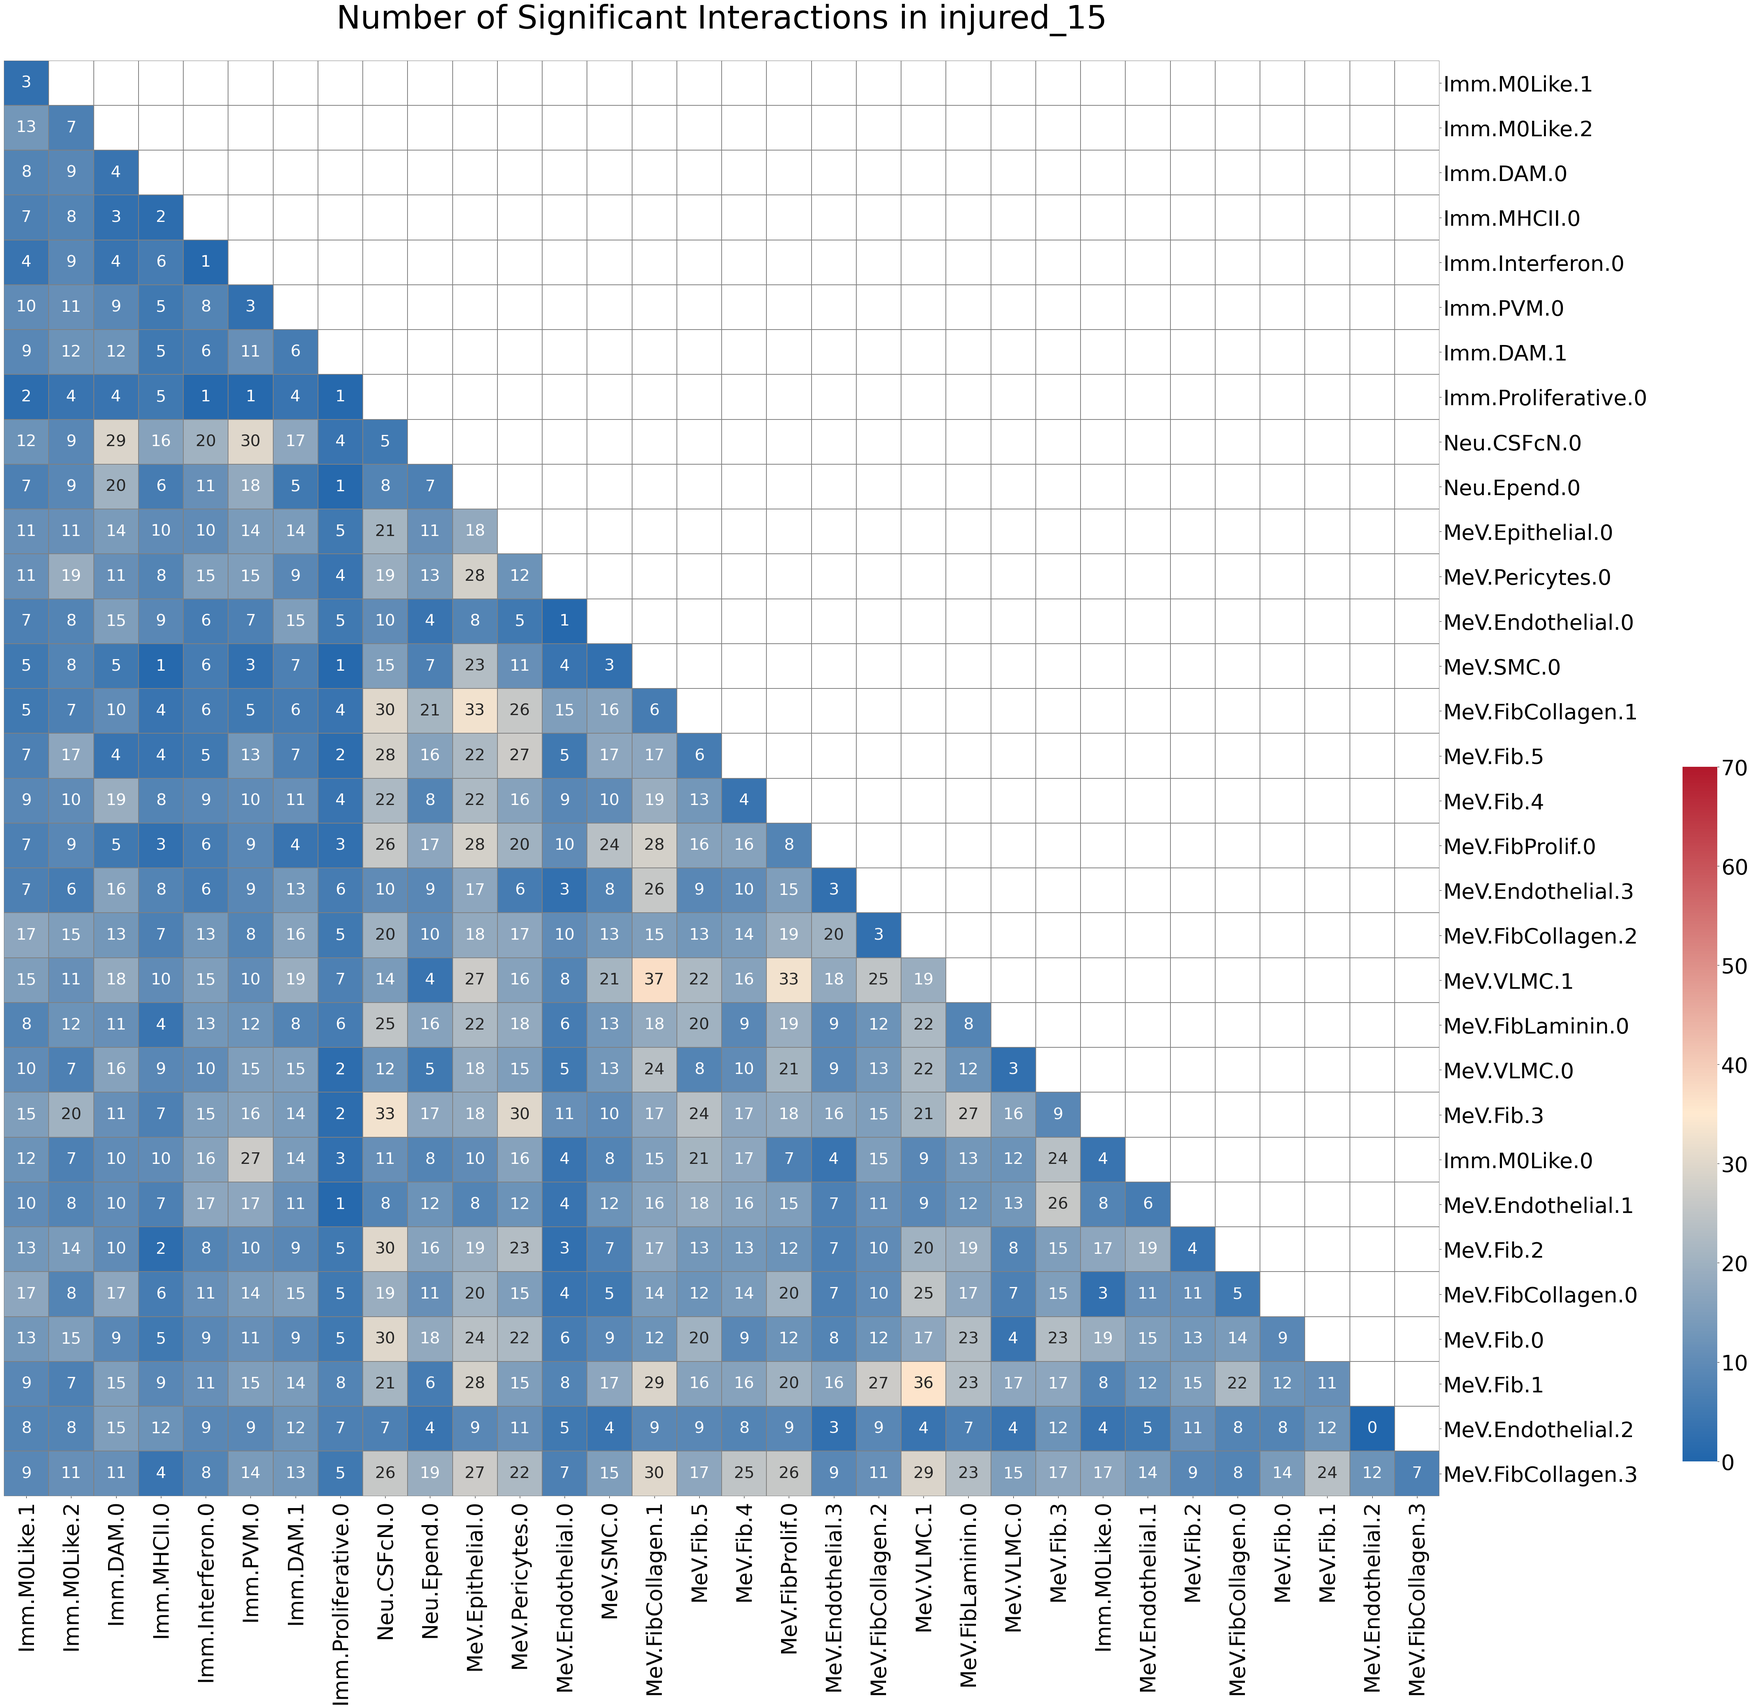
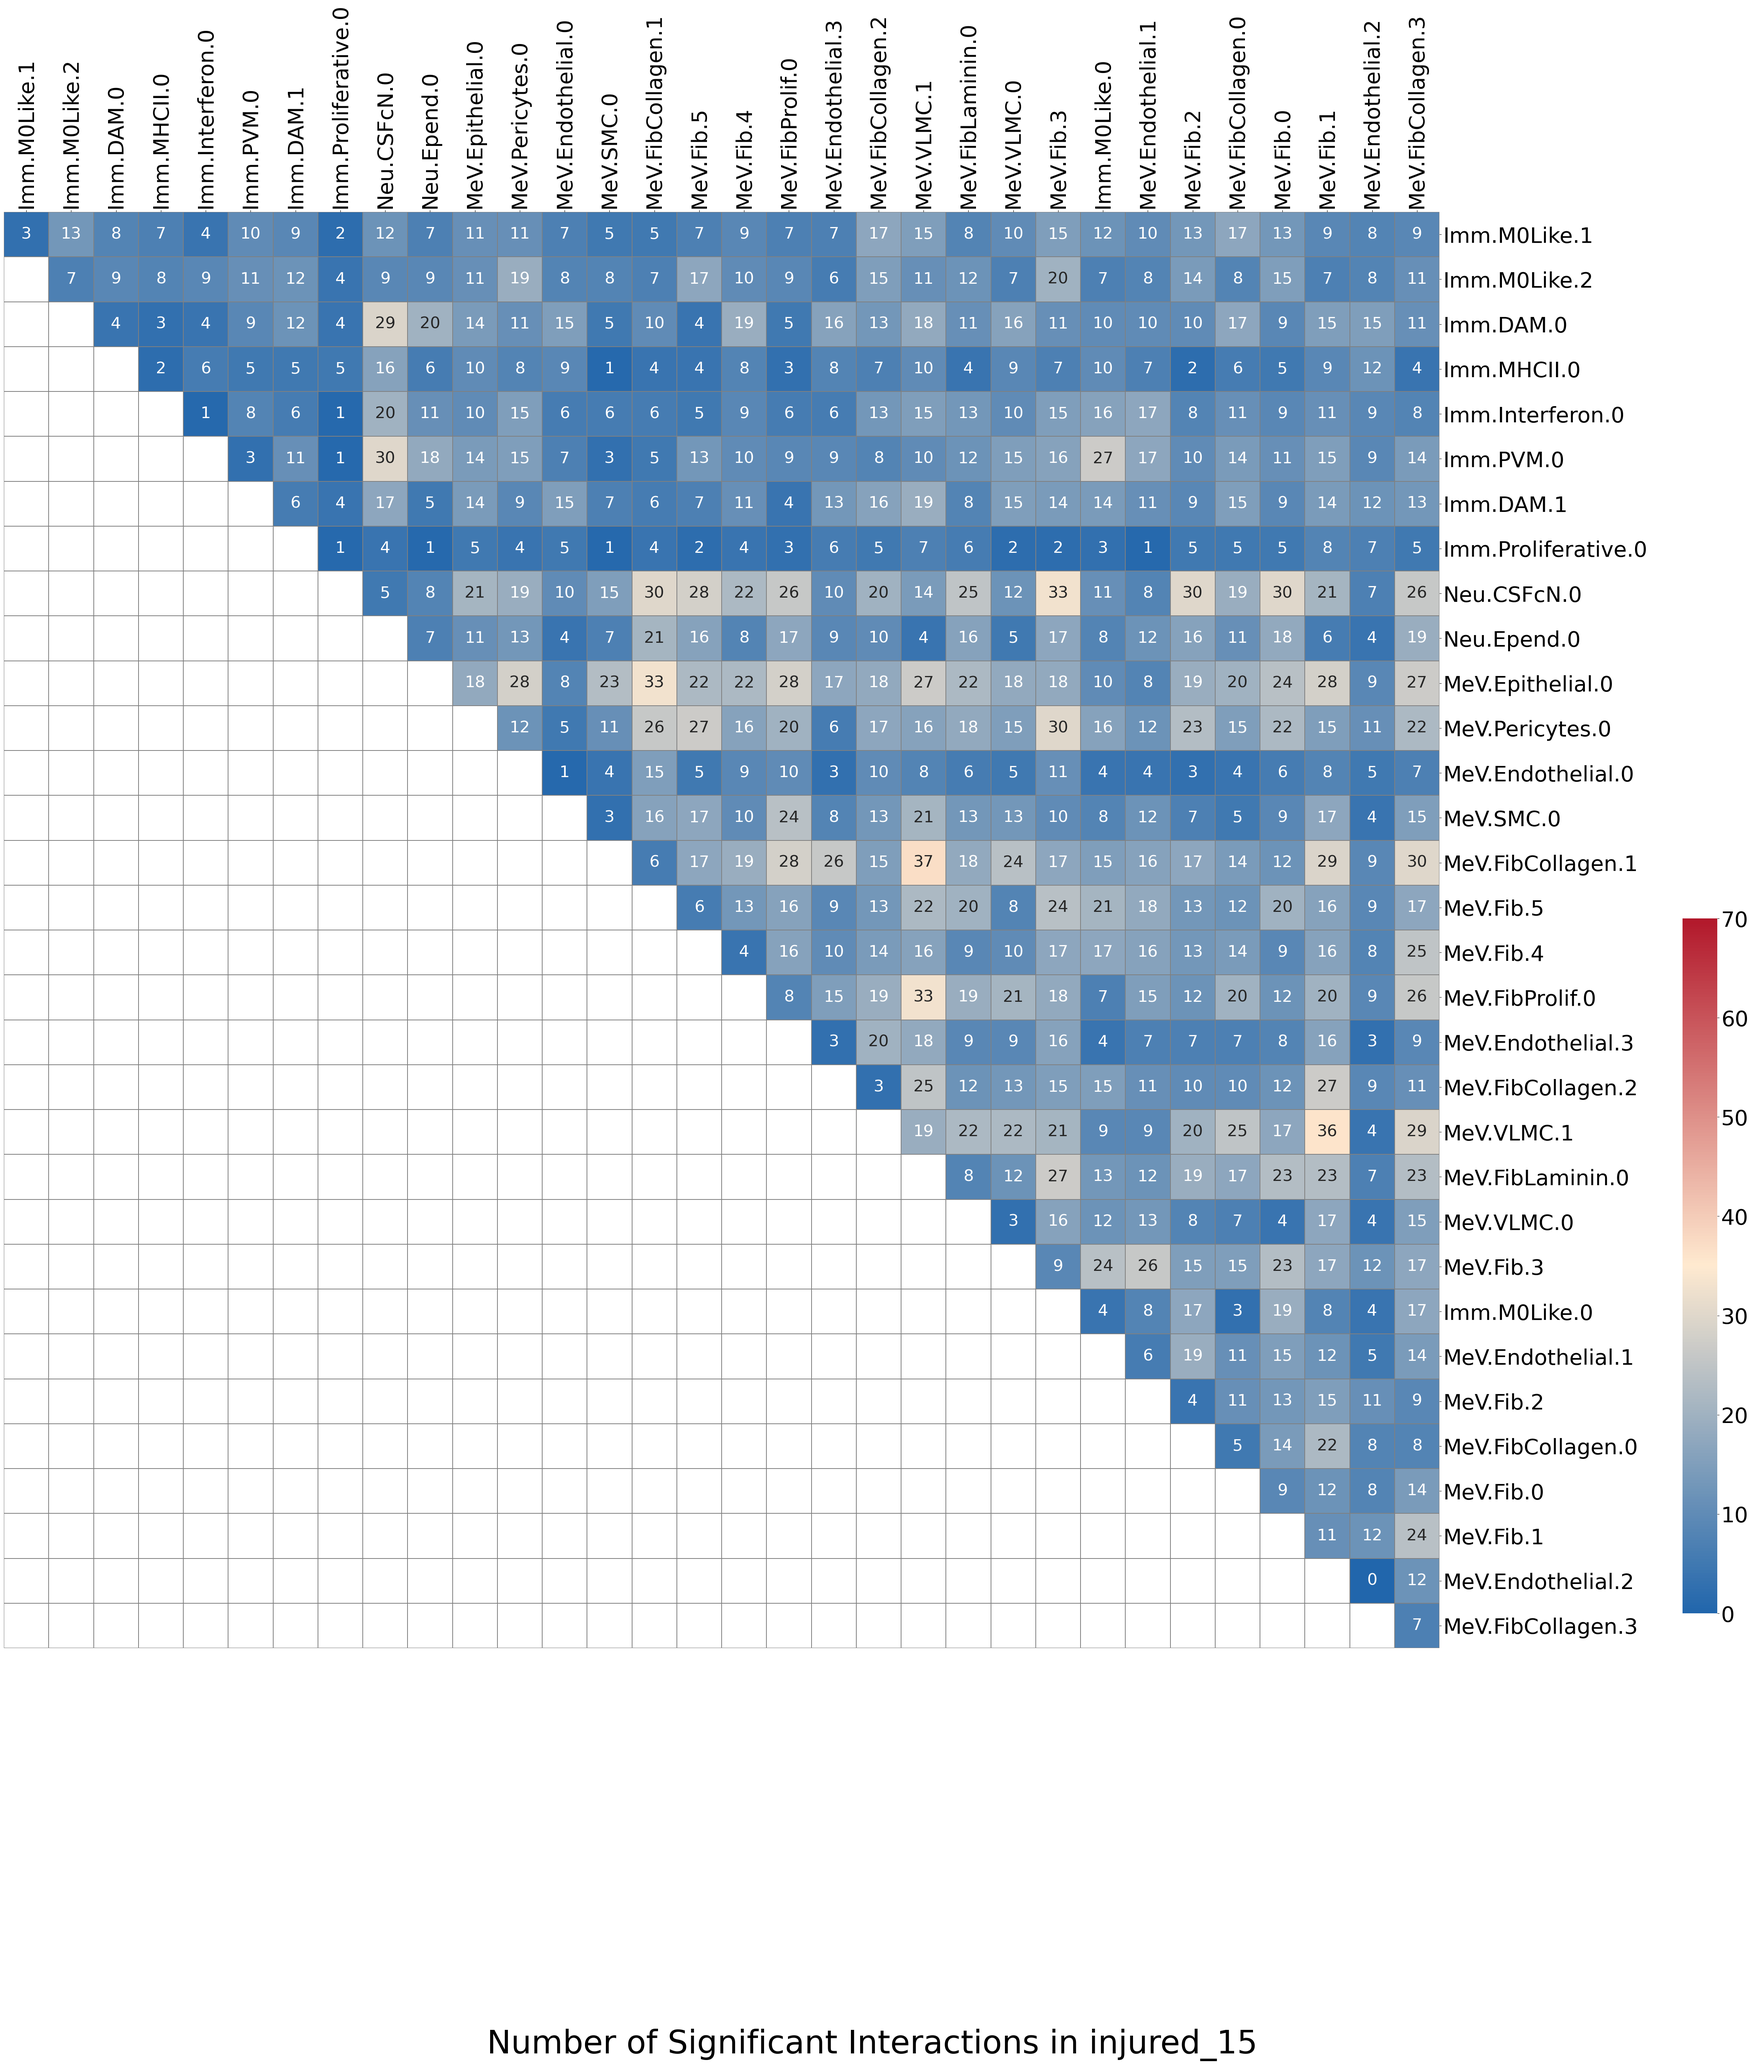
add new updates on stuff

diff --git a/src/scripts/scripts_cellphonedb/common_interactions.py b/src/scripts/scripts_cellphonedb/common_interactions.py
@@ -169,7 +169,7 @@ def test_heatmap(category: str = None, remove_clusters: list = [], matrix: pd.Da
     print(f"Ordered Matrix:\n{ordered_matrix}")
 
     #show only one part
-    mask = np.triu(np.ones(ordered_matrix.shape, dtype=bool), k=1)
+    mask = np.tril(np.ones(ordered_matrix.shape, dtype=bool), k=-1) 
 
     # print("######")
     # print(ordered_matrix.shape)
@@ -200,11 +200,14 @@ def test_heatmap(category: str = None, remove_clusters: list = [], matrix: pd.Da
         vmax=vmax
     )
 
-    # Title and axis customization
-    plt.title(f"Number of Significant Interactions in {category}", fontsize=60, pad=60)
-    ax.yaxis.set_ticks_position('right')
+    # Move x-tick labels to top
+    ax.tick_params(top=True, bottom=False, labeltop=True, labelbottom=False)
     ax.set_xticklabels(ax.get_xticklabels(), fontsize=40, rotation=90)
     ax.set_yticklabels(ax.get_yticklabels(), fontsize=40, rotation=0)
+    ax.yaxis.set_ticks_position('right')
+
+    # Add title at the bottom manually
+    plt.figtext(0.5, 0.01, f"Number of Significant Interactions in {category}", ha='center', fontsize=60)
 
     # Adjust colorbar ticksM0Like.1
     cbar = ax.collections[0].colorbar
@@ -448,6 +451,39 @@ def reorder_edge_list_by_groups(edge_list_df, group_dict, output_edge_path, outp
     print(f"✅ Cluster-group mapping saved to: {output_group_path}")
 
 
+def plot_interaction_distribution_matplotlib(edge_list_df, condition_label="", output_dir="/home/makowlg/Documents/Immune-CCI/src/cellphonedb/plots/histograms"):
+    """
+    Saves a histogram using Matplotlib to show the distribution of interaction counts
+    with correct bar alignment and axis labels.
+
+    Parameters:
+    - edge_list_df: pd.DataFrame with a 'value' column
+    - condition_label: str, label for the plot
+    - output_dir: str, path to save the figure
+    """
+    if 'value' not in edge_list_df.columns:
+        raise ValueError("Input DataFrame must contain a 'value' column.")
+    
+    os.makedirs(output_dir, exist_ok=True)
+    output_path = os.path.join(output_dir, f"interaction_distribution_{condition_label}.png")
+
+    values = edge_list_df['value']
+    
+    plt.figure(figsize=(10, 6))
+    counts, bins, patches = plt.hist(values, bins=range(int(values.min()), int(values.max()) + 2), color='skyblue', edgecolor='black', align='left')
+
+    plt.title(f"Distribution of Interaction Counts - {condition_label}", fontsize=16)
+    plt.xlabel("Number of Significant Interactions", fontsize=14)
+    plt.ylabel("Number of Cluster Pairs", fontsize=14)
+    plt.grid(True, linestyle='--', alpha=0.5)
+    plt.xticks(bins[:-1])  # show each bin value on x-axis
+
+    plt.tight_layout()
+    plt.savefig(output_path)
+    plt.close()
+    print(f"✅ Histogram saved to {output_path}")
+
+
 # Main execution block
 if __name__ == "__main__":
     # Load data
@@ -554,6 +590,8 @@ if __name__ == "__main__":
     #     output_group_path="/home/makowlg/Documents/Immune-CCI/src/cellphonedb/excels/group_annotation_60.csv"
     # )
 
+    plot_interaction_distribution_matplotlib(edge_list_15, condition_label="Injured 15")
+    plot_interaction_distribution_matplotlib(edge_list_60, condition_label="Injured 60")
 
 
 

diff --git a/src/scripts/scripts_cellphonedb/plot_cellphonedb.py b/src/scripts/scripts_cellphonedb/plot_cellphonedb.py
@@ -137,7 +137,7 @@ def test_heatmap(adata: sc.AnnData, obs_key: str = None, category: str = None, r
     print(f"Ordered Matrix:\n{ordered_matrix}")
 
     #show only one part
-    mask = np.triu(np.ones(ordered_matrix.shape, dtype=bool), k=1)
+    mask = np.tril(np.ones(ordered_matrix.shape, dtype=bool), k=-1)     
     
     # print("######")
     # print(ordered_matrix.shape)
@@ -168,11 +168,14 @@ def test_heatmap(adata: sc.AnnData, obs_key: str = None, category: str = None, r
         vmax=vmax
     )
 
-    # Title and axis customization
-    plt.title(f"Number of Significant Interactions in {category}", fontsize=60, pad=60)
-    ax.yaxis.set_ticks_position('right')
+    # Move x-tick labels to top
+    ax.tick_params(top=True, bottom=False, labeltop=True, labelbottom=False)
     ax.set_xticklabels(ax.get_xticklabels(), fontsize=40, rotation=90)
     ax.set_yticklabels(ax.get_yticklabels(), fontsize=40, rotation=0)
+    ax.yaxis.set_ticks_position('right')
+
+    # Add title at the bottom manually
+    plt.figtext(0.5, 0.01, f"Number of Significant Interactions in {category}", ha='center', fontsize=60)
 
     # Adjust colorbar ticksM0Like.1
     cbar = ax.collections[0].colorbar
